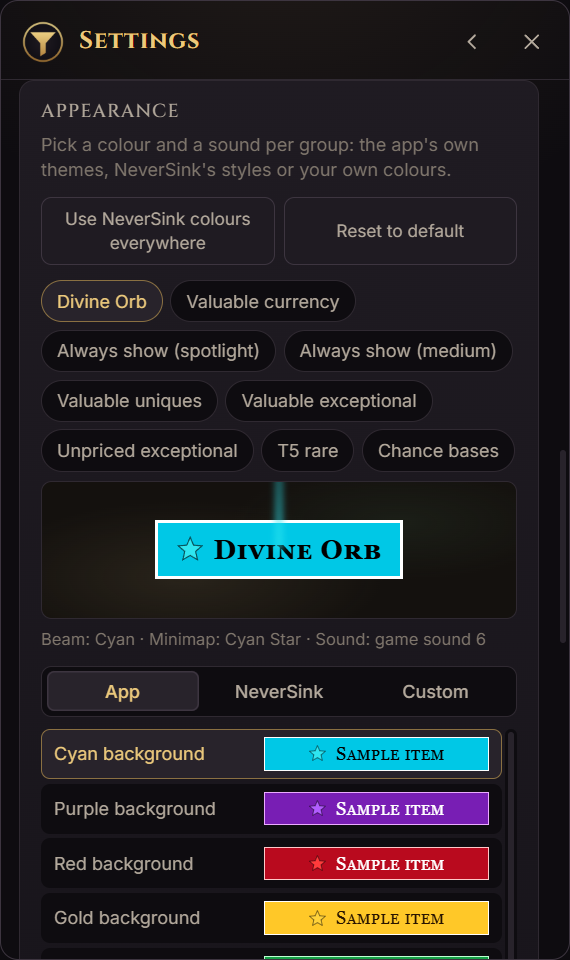
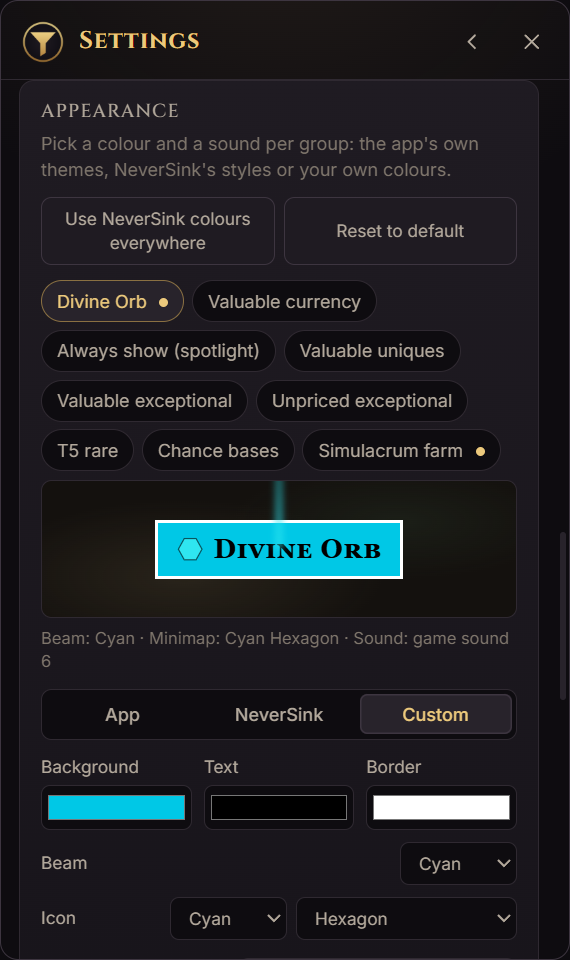
Sürüm 0.7.0: minimap şekli düzeltmesi ve grup ekranları
Özel tema düzenleyicisinde şekil menüsü simge rengi seçilene kadar
pasifti, yani zaten yazılmış olan "şekli seçersen rengi kendiliğinden
gelsin" mantığı hiç çalışamıyordu. Menü açıldı; renk seçilince de
grubun kendi şekli varsayılan olarak geliyor. Gizle grupları artık
Görünüm sekmelerinde görünmüyor, çünkü gizlenen eşyanın rengi yok.

Sürüm numarası 0.7.0'a çekildi, release notları yazıldı, README grup
bölümüyle güncellendi ve ekran görüntüleri tazelendi.

diff --git a/frontend/src/lib/ThemePicker.svelte b/frontend/src/lib/ThemePicker.svelte
@@ -72,9 +72,12 @@
     if (value !== 'custom') oncustom({ ...draft })
   }
 
+  // A minimap icon needs both a colour and a shape, so choosing one fills in
+  // the other: the beam's colour (or white), and the group's own shape.
   function update<K extends keyof CustomStyle>(k: K, v: CustomStyle[K]) {
     draft = { ...draft, [k]: v }
-    if (k === 'shape' && v && !draft.icon) draft.icon = draft.beam || 'White'
+    if (k === 'shape' && v && !draft.icon) draft.icon = (draft.beam || 'White').split(' ')[0]
+    if (k === 'icon' && v && !draft.shape) draft.shape = group.iconShape || 'Star'
     if (k === 'icon' && !v) draft.shape = ''
     oncustom({ ...draft })
   }
@@ -142,7 +145,7 @@
           <option value="">{t('picker.none')}</option>
           {#each colours as c}<option value={c}>{colourName(c) || c}</option>{/each}
         </select>
-        <select value={draft.shape} disabled={!draft.icon} onchange={(e) => update('shape', e.currentTarget.value)}>
+        <select value={draft.shape} onchange={(e) => update('shape', e.currentTarget.value)}>
           <option value="">{t('picker.noShape')}</option>
           {#each shapes as s}<option value={s}>{shapeName(s) || s}</option>{/each}
         </select>

diff --git a/frontend/src/App.svelte b/frontend/src/App.svelte
@@ -168,7 +168,10 @@
   // all share one look template.
   const allGroups = $derived.by<StyleGroup[]>(() => {
     if (!groupTemplate || !cfg?.item_groups?.length) return groups
-    const own = cfg.item_groups!.map((g) => ({ ...groupTemplate!, id: 'user:' + g.id, label: g.name }) as StyleGroup)
+    // A hidden group draws nothing, so it has no colours to pick.
+    const own = cfg.item_groups!
+      .filter((g) => !g.hide)
+      .map((g) => ({ ...groupTemplate!, id: 'user:' + g.id, label: g.name }) as StyleGroup)
     return [...groups, ...own]
   })
 

diff --git a/main.go b/main.go
@@ -20,7 +20,7 @@ import (
 )
 
 // version is set at build time with -ldflags "-X main.version=...".
-var version = "0.6.0"
+var version = "0.7.0"
 
 //go:embed all:frontend/dist
 var frontend embed.FS

diff --git a/README.md b/README.md
@@ -4,7 +4,7 @@ Sistem tepsisinde çalışan, NeverSink'in Path of Exile 2 loot filtresini **can
 
 <p align="center">
   <img src="docs/panel.png" alt="Ana panel" width="300" />
-  <img src="docs/appearance.png" alt="Görünüm ayarları" width="300" />
+  <img src="docs/groups.png" alt="Kendi eşya grupların" width="300" />
 </p>
 
 Bir değer eşiği belirlersin — örneğin 50 exalted. Uygulama piyasayı düzenli olarak tarar, eşiği geçen her şeyi yerde göze çarpacak şekilde işaretler, altında kalanları gizler veya soluklaştırır. Fiyatlar değiştikçe filtre kendi kendine güncellenir; lig ilerledikçe listeni elle düzeltmen gerekmez.
@@ -46,13 +46,16 @@ Panelde, tepsi simgesine tıklayınca açılır.
 | **Değer eşiği** | Eşik ve birimi (exalted / chaos / divine). Altında kalan eşyalar gizlenir veya soluklaştırılır. |
 | **NeverSink temeli** | Strictness seçimi (0 Soft … 6 Uber Plus Strict) veya kendi temel filtre dosyan. |
 | **Özel kurallar** | T5 rare ve jewel'lar, yüksek kaliteli ekipman, yüksek waystone'lar, uncut gem'ler, uncut support gem'ler, pinnacle anahtarları; Exalted Orb ve altını gizleme. |
-| **Listeler** | "Her zaman göster" (öne çıkar / orta vurgu), "her zaman gizle" ve chance tabanları. Fiyattan bağımsız çalışır. |
-| **Görünüm** | 9 eşya grubunun her biri için renk teması ve ses. Uygulamanın hazır temaları, NeverSink'in kendi 68 stili veya kendi renk/simge seçimin. Değişiklikler panelde canlı önizlenir. |
+| **Listeler** | "Her zaman göster" (en güçlü vurgu) ve chance tabanları. Fiyattan bağımsız çalışır. |
+| **Gruplarım** | Kendi listelerin, en fazla 12 tane. Her grubun adı, eşya listesi, rengi, simgesi ve sesi ayrı; grup içindekileri gösterir ya da gizler. |
+| **Görünüm** | Her eşya grubu (yerleşik olanlar ve kendi grupların) için renk teması ve ses. Uygulamanın hazır temaları, NeverSink'in kendi 68 stili veya kendi renklerin — minimap simgesinin rengi ve şekli dahil. Değişiklikler panelde canlı önizlenir. |
 | **Otomatik güncelleme** | Aralık (varsayılan 4 saat) ve bildirimler. Kapatırsan "Şimdi güncelle" ile elle çalıştırırsın. |
 | **Trade taraması** | Exceptional taban taramasını aç/kapat ve trade kotasının ne kadarını kullanacağını seç (%10–80, varsayılan %40). |
 | **Genel** | Dil, lig, oyundaki filtre adı, filtre ve veri klasörleri. |
 
 Ayarı değiştirdiğinde panel "Ayarlar değişti, filtreye yansıması için güncelle" der: önce **Güncelle**, sonra oyunda **Reload**.
+
+<p align="center"><img src="docs/appearance.png" alt="Görünüm bölümü" width="300" /></p>
 
 ## Sık karşılaşılanlar
 
@@ -64,7 +67,11 @@ Ayarı değiştirdiğinde panel "Ayarlar değişti, filtreye yansıması için g
 
 **Çok fazla şey gizleniyor / yeterince gizlenmiyor.** Önce değer eşiğini, sonra NeverSink strictness'ını oynat. İkisi birlikte çalışır: strictness tabanı belirler, eşik senin kurallarını.
 
-**Belirli bir eşyayı hep görmek istiyorum.** Listeler → "Her zaman göster". Yalnızca unique hâlini istiyorsan `Taban adı|unique` yazabilirsin.
+**Belirli bir eşyayı hep görmek istiyorum.** Listeler → "Her zaman göster", ya da kendi grubunu kur: Gruplarım → Grup ekle. Yalnızca unique hâlini istiyorsan `Taban adı|unique` yazabilirsin.
+
+**Bir grup kurdum ama eşya hâlâ eski rengiyle çıkıyor.** Eşya eşiğin üstündeyse güçlü "değerli" vurgusunu korur. Grubun rengi her koşulda kazansın istiyorsan o grubun "her zaman kazansın" anahtarını aç.
+
+**Minimap simgesini nasıl değiştiririm?** Görünüm → grubu seç → **Özel** sekmesi: zemin, yazı, çerçeve, ışın rengi ve minimap simgesinin rengi ile şekli (yıldız, elmas, altıgen, artı…). Şekli seçmen yeterli, rengi kendiliğinden gelir.
 
 **Renklerle oynadım, beğenmedim.** Görünüm bölümünde iki düğme var: "Varsayılana döndür" tüm grupların rengini ve sesini sıfırlar, "Tümünü NeverSink renklerine çevir" hepsini NeverSink'in kendi stillerine yaklaştırır.
 

diff --git a/.github/release-notes/v0.7.0.md b/.github/release-notes/v0.7.0.md
@@ -1,0 +1,20 @@
+## Yenilikler
+
+**Kendi eşya grupların.** Tek bir "orta vurgu" listesi yerine artık en fazla 12 grup oluşturabilirsin (Ayarlar → Gruplarım). Her grubun kendi adı, eşya listesi, rengi, minimap simgesi ve sesi var.
+
+- Grup ya içindekileri **gösterir** ya da **gizler**.
+- Göster gruplarında **"her zaman kazansın"** anahtarı var: açıkken eşya kaç ex ederse etsin senin verdiğin renkte görünür, kapalıyken eşiğin üstündeki bir eşya güçlü vurgusunu korur (eski orta listenin davranışı).
+- Gizle grupları filtrenin en başına yazılır ve kara listenin koruması onlarda da geçerlidir: bir unique'i gizlerken aynı tabandaki başka bir unique değerliyse taban gizlenmez, bunun yerine uyarı verilir.
+- Grubun rengini ve sesini Görünüm bölümünden seçersin; her grup orada kendi sekmesiyle görünür.
+
+Mevcut "orta vurgu" ve "her zaman gizle" listelerin açılışta birer gruba dönüşür; renkleri ve sesleri de birlikte taşınır, hiçbir ayar kaybolmaz.
+
+## Düzeltmeler
+
+- **Minimap şekli seçilemiyordu.** Özel tema düzenleyicisinde şekil menüsü, simge rengi seçilene kadar pasif duruyordu; çoğu kullanıcı özelliğin varlığını fark etmiyordu. Artık önce şekli seçebilirsin, rengi kendiliğinden geliyor (ışının rengi, yoksa beyaz).
+- **Oyun seslerinin yanındaki Dinle düğmesi** hiçbir zaman çalışamıyordu; 1–6 arası sesler oyunun kendi sesleri. Düğme artık yalnızca kendi ses dosyanı seçtiğinde çıkıyor, aksi hâlde yerinde tek satırlık açıklama var.
+- Tema seçicide iki menü öğesi çeviriye bağlanmamıştı.
+
+## Kurulum
+
+`poe2filtre-v0.7.0-windows-amd64.exe` dosyasını indir; kurulum gerekmez, tek dosya. Exe imzasız olduğu için Windows SmartScreen uyarı gösterebilir: **Ek bilgi → Yine de çalıştır**.
